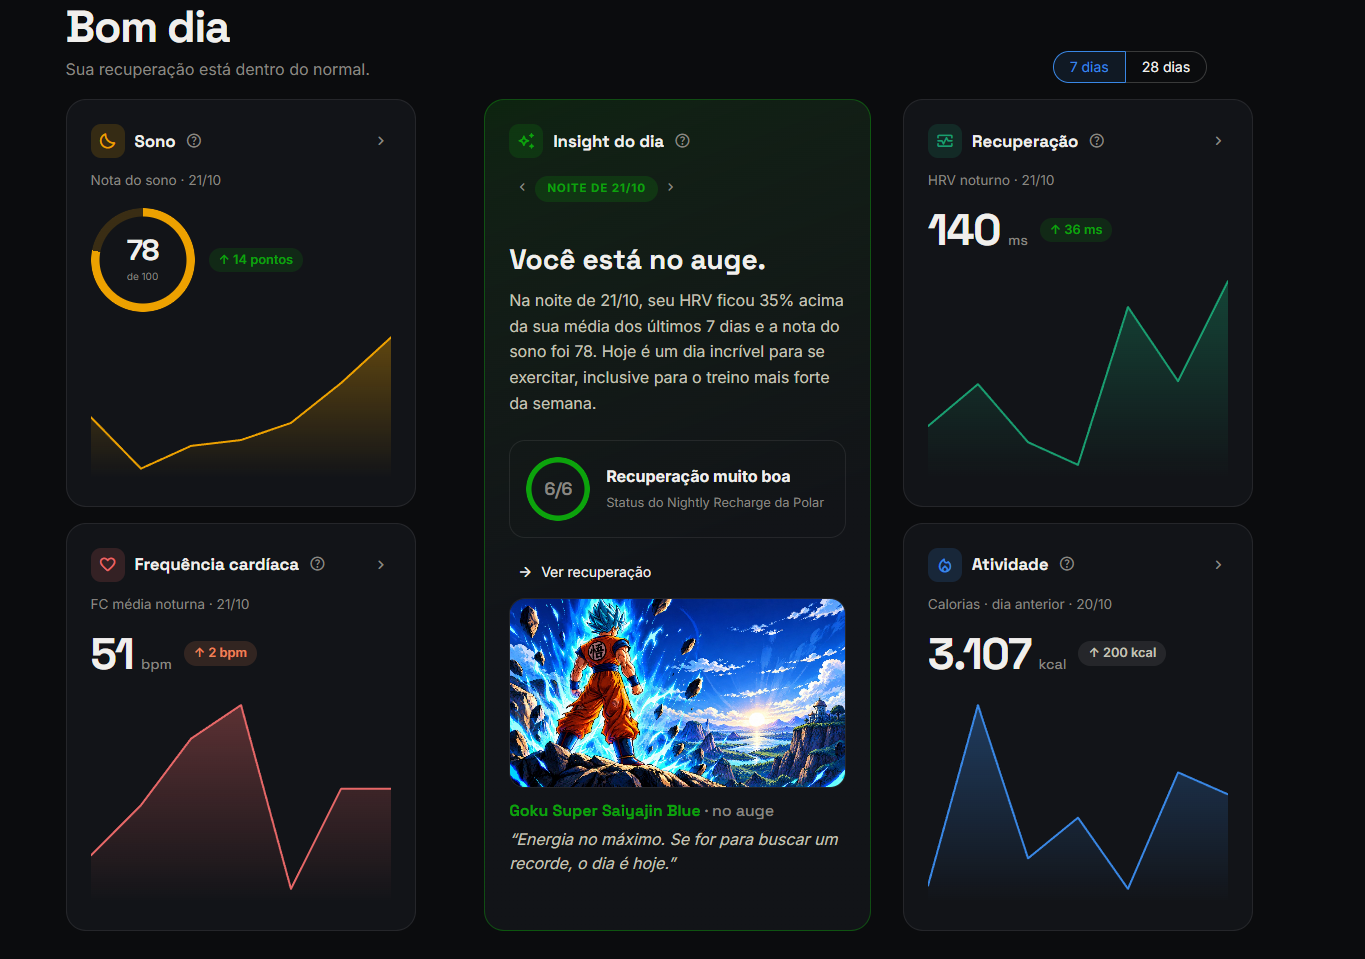
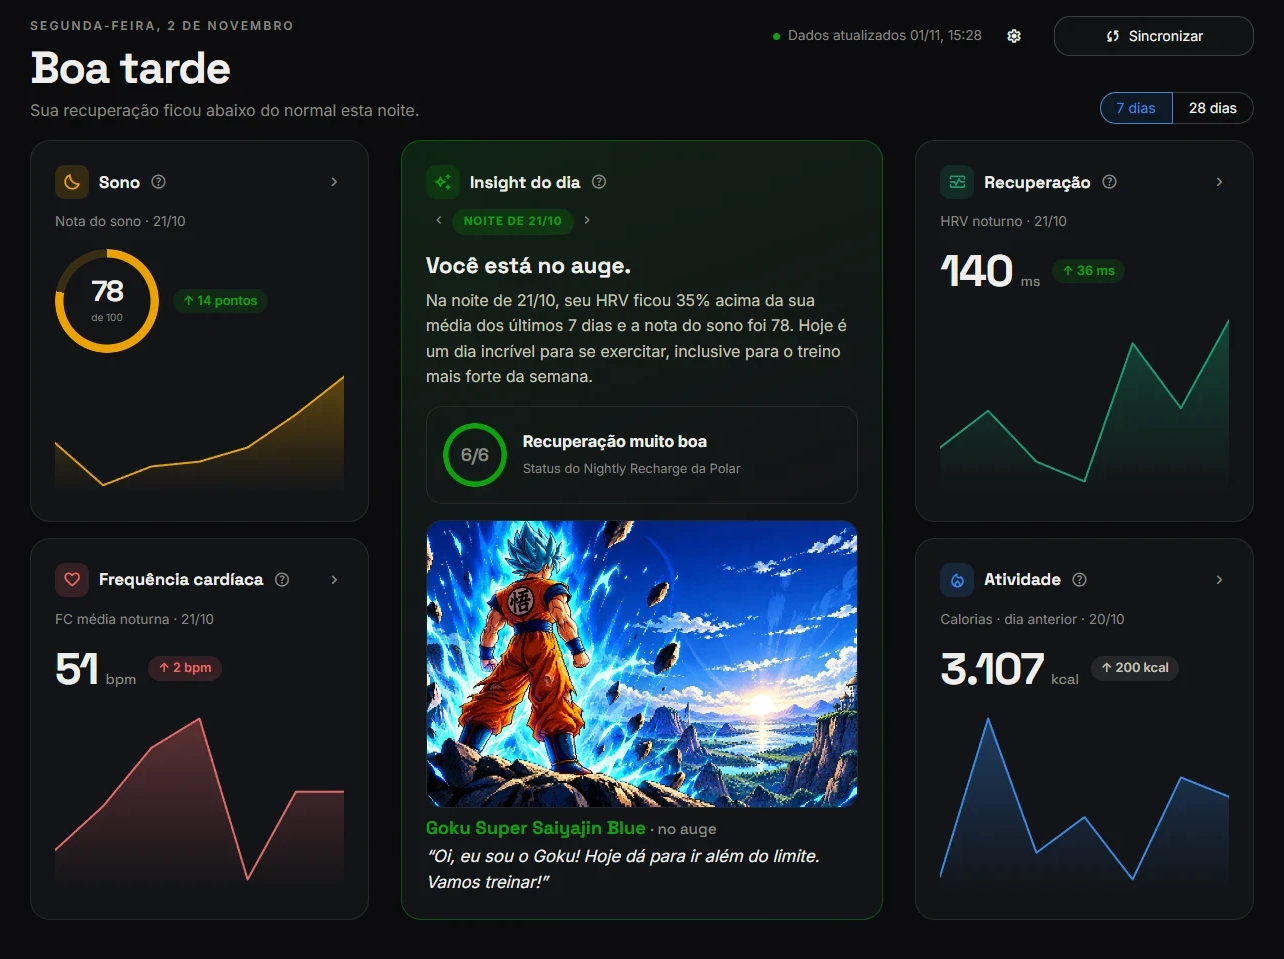
README: prints dos 6 níveis, Configurações e aparências
Páginas de detalhe em blocos recolhíveis; prints atualizados.
Corrige "Visual" (fundo preto ou branco) e explica os dois botões
de restaurar padrão.

diff --git a/README.md b/README.md
@@ -14,21 +14,63 @@ Os dados são baixados da [API Polar AccessLink v3](https://www.polar.com/access
 
 O **Insight do dia** muda com o status do Nightly Recharge. Cada um dos 6 níveis tem título, conselho, cor e personagem próprios, e as setas ‹ › navegam entre as noites:
 
-| Recuperação muito boa (6/6) | Recuperação OK (4/6) |
+| Recuperação muito boa (6/6) | Recuperação boa (5/6) |
 |---|---|
-| ![Resumo com recuperação muito boa](docs/screenshots/resumo-muito-boa.png) | ![Resumo com recuperação OK](docs/screenshots/resumo-ok.png) |
-| **Recuperação comprometida (3/6)** | **Recuperação muito ruim (1/6)** |
-| ![Resumo com recuperação comprometida](docs/screenshots/resumo-comprometida.png) | ![Resumo com recuperação muito ruim](docs/screenshots/resumo-muito-ruim.png) |
+| ![Resumo com recuperação muito boa](docs/screenshots/resumo-muito-boa.png) | ![Resumo com recuperação boa](docs/screenshots/resumo-boa.png) |
+| **Recuperação OK (4/6)** | **Recuperação comprometida (3/6)** |
+| ![Resumo com recuperação OK](docs/screenshots/resumo-ok.png) | ![Resumo com recuperação comprometida](docs/screenshots/resumo-comprometida.png) |
+| **Recuperação ruim (2/6)** | **Recuperação muito ruim (1/6)** |
+| ![Resumo com recuperação ruim](docs/screenshots/resumo-ruim.png) | ![Resumo com recuperação muito ruim](docs/screenshots/resumo-muito-ruim.png) |
 
 ### Páginas de detalhe
 
-Cada cartão do Resumo abre uma página com a evolução no período, as tendências e os detalhes de uma noite ou dia:
+Cada cartão do Resumo abre uma página com a evolução no período, as tendências e os detalhes de uma noite ou dia. Clique para ver a página inteira:
 
-| Sono | Recuperação |
+<details>
+<summary><b>Sono</b>: nota e duração, estágios por noite, hipnograma e FC durante o sono</summary>
+
+![Página de sono](docs/screenshots/sono.png)
+
+</details>
+
+<details>
+<summary><b>Recuperação</b>: status do Nightly Recharge, HRV, ANS charge, respiração e as medições da noite</summary>
+
+![Página de recuperação](docs/screenshots/recuperacao.png)
+
+</details>
+
+<details>
+<summary><b>Frequência cardíaca</b>: FC média noturna, mínima e máxima por dia e FC contínua ao longo do dia</summary>
+
+![Página de frequência cardíaca](docs/screenshots/frequencia-cardiaca.png)
+
+</details>
+
+<details>
+<summary><b>Atividade</b>: calorias, passos, tempo ativo e o resumo de um dia</summary>
+
+![Página de atividade](docs/screenshots/atividade.png)
+
+</details>
+
+### Configurações
+
+A engrenagem no topo do Resumo abre a personalização: esquemas salvos, aparência, cores e o texto e a imagem de cada nível, com recorte arrastável:
+
+| Esquemas, aparência e cores | Níveis de recuperação |
 |---|---|
-| ![Página de sono](docs/screenshots/sono.png) | ![Página de recuperação](docs/screenshots/recuperacao.png) |
-| **Frequência cardíaca** | **Atividade** |
-| ![Página de frequência cardíaca](docs/screenshots/frequencia-cardiaca.png) | ![Página de atividade](docs/screenshots/atividade.png) |
+| ![Página de Configurações com esquemas, aparência e cores](docs/screenshots/configuracoes.png) | ![Edição de um nível com o recorte da imagem](docs/screenshots/configuracoes-niveis.png) |
+
+#### Aparências
+
+Duas escolhas independentes, **fundo** (preto ou branco) e **quadrados** (degradê ou sólidos), valem para todas as páginas e mantêm as cores de cada grupo:
+
+| Preto + degradê (padrão) | Preto + sólido |
+|---|---|
+| ![Resumo com fundo preto e quadrados em degradê](docs/screenshots/resumo-muito-boa.png) | ![Resumo com fundo preto e quadrados sólidos](docs/screenshots/aparencia-preto-solido.png) |
+| **Branco + degradê** | **Branco + sólido** |
+| ![Resumo com fundo branco e quadrados em degradê](docs/screenshots/aparencia-branco-degrade.png) | ![Resumo com fundo branco e quadrados sólidos](docs/screenshots/aparencia-branco-solido.png) |
 
 ## Funcionalidades
 
@@ -51,12 +93,12 @@ Cada cartão do Resumo abre uma página com a evolução no período, as tendên
 - **Aparência:** duas escolhas independentes, em todas as páginas e mantendo as cores escolhidas: **fundo** preto (padrão) ou branco, e **quadrados** com degradê (padrão: neutros, com degradê das cores) ou sólidos (cada um num tom liso da sua cor).
 - **Cores:** troque a cor de cada grupo, que vale para cartões, títulos e gráficos, e as 3 cores do Insight do dia, uma para cada resultado da recuperação (baixa, normal e boa).
 - **Níveis de recuperação:** para cada um dos 6 níveis, edite o título, a frase do topo, o conselho, o personagem, o humor e a fala, e envie uma imagem própria (PNG, JPG ou WEBP). A imagem pode ser recortada arrastando uma moldura em 3:2, o formato em que ela aparece no Insight, para escolher o trecho e o zoom, com prévia. A imagem original nunca é alterada: só a posição da moldura é salva.
-- **Restaurar padrão:** volta as cores, os textos ou a imagem de um nível ao original.
+- **Restaurar padrão:** há dois botões. O **Restaurar padrão** de cada seção volta ao original as cores ou os 6 níveis inteiros (textos, imagens e recortes; as imagens enviadas são apagadas). O **Restaurar imagem padrão** volta só a imagem e o recorte de um nível.
 
 **Em todas as páginas**
 - **Período:** 7 ou 28 dias, compartilhado entre as páginas.
 - **Ajuda:** um "?" ao lado de cada gráfico e categoria explica o que é medido.
-- **Visual:** tema escuro, uma cor por grupo e layout responsivo (desktop, tablet e celular).
+- **Visual:** fundo preto ou branco, uma cor por grupo e layout responsivo (desktop, tablet e celular).
 
 ## Como funciona
 
